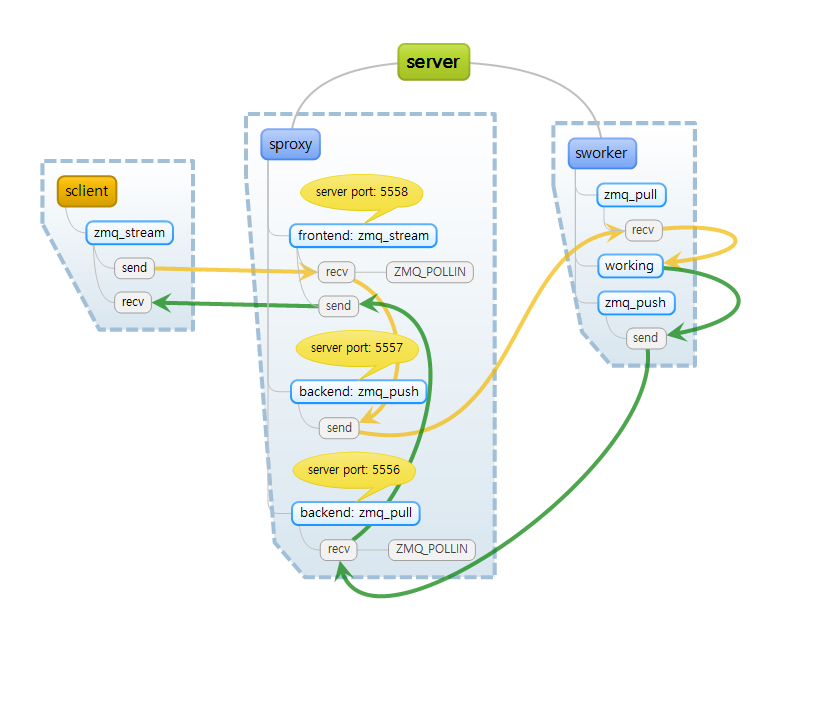
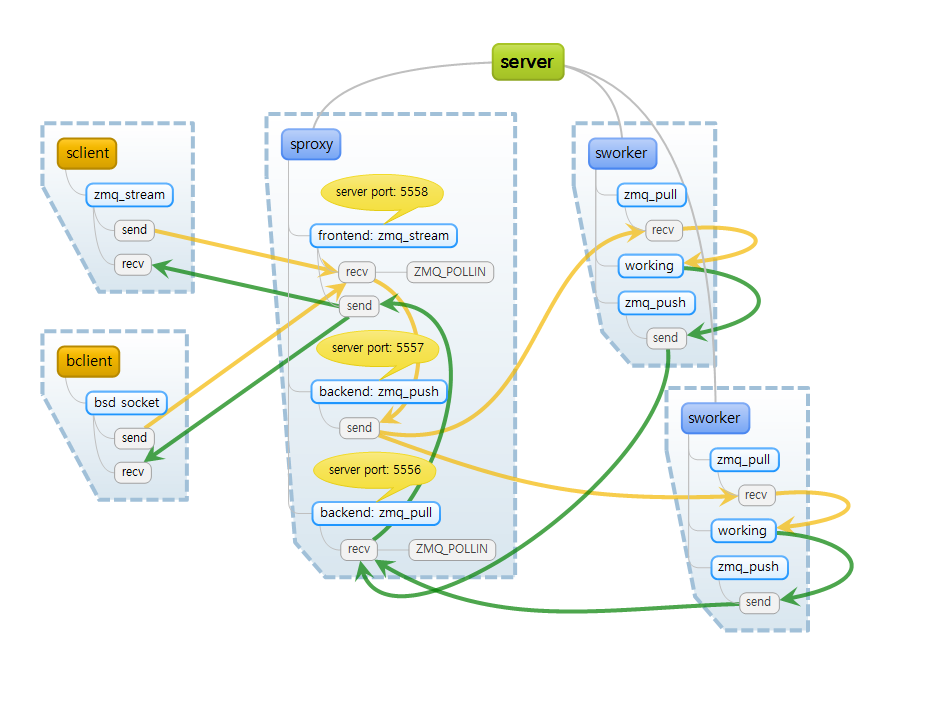
설명 및 내용 추가

Changed region(s): [[0.0304, 0.061, 0.9124, 0.8849]]

diff --git a/stream/README.md b/stream/README.md
@@ -1,9 +1,21 @@
 # ZEROMQ 관련 예제
-## ZMQ_STREAM
+## ZMQ_STREAM 응용
+
+### 목적
+* BSD Socket과 ZMQ(ZMQ_STREAM)와 연동 가능 여부 테스트
+
+### 구성도
+![ZMQ_STREAM PIPELINE](zmq_stream.png)
+
+### 파일 설명
 * sserver.cpp: ZMQ_STREAM SERVER
 * sclient.cpp: ZMQ_STREAM CLIENT
 * sproxy.cpp: ZMQ_STREAM PROXY
+ * STREAM->PUSH->PULL->STREAM
 * sworker.cpp: ZMQ_STREAM WORKER
 * bclient.cpp: BSD SOCKET CLIENT
+ * BSD Client Socket
 
-![ZMQ_STREAM PIPELINE](zmq_stream.png)
+### How To Build
+* cmake 사용
+* centos에서 빌드, 다른 OS 빌드 테스트 안함.
